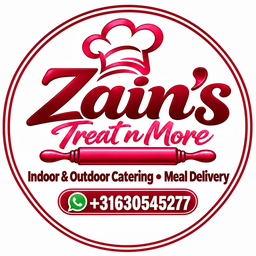
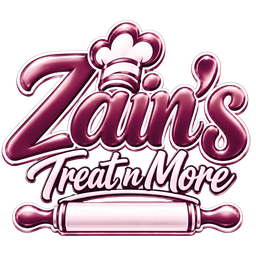
brand changes

diff --git a/apps/web/components/logo.tsx b/apps/web/components/logo.tsx
@@ -1,18 +1,11 @@
 import Image from "next/image";
 import { Link } from "@/i18n/navigation";
-import logoImage from "@/public/logo.jpg";
+import logoImage from "@/public/logo.png";
 
 export function Logo() {
   return (
     <Link href="/" className="inline-flex items-center" aria-label="Zain's Treat n More — Home">
-      <Image
-        src={logoImage}
-        alt="Zain's Treat n More"
-        width={48}
-        height={48}
-        priority
-        className="rounded-full"
-      />
+      <Image src={logoImage} alt="Zain's Treat n More" width={53} height={48} priority />
     </Link>
   );
 }

diff --git a/apps/web/app/globals.css b/apps/web/app/globals.css
@@ -2,11 +2,11 @@
 
 @theme {
   /* Brand palette (README §3) */
-  --color-primary: #A7041B;
-  --color-primary-dark: #71013B;
-  --color-primary-light: #E2073E;
-  --color-accent: #F93173;
-  --color-accent-light: #F4B7C7;
+  --color-primary: #72123C;
+  --color-primary-dark: #4E0C2A;
+  --color-primary-light: #8A1E4E;
+  --color-accent: #C66C84;
+  --color-accent-light: #F0AEC0;
   --color-background: #FFFFFF;
   --color-background-soft: #FAE8EA;
   --color-cream: #FBF4E9;

diff --git a/specs/2026-10-02-phase-5-public-static-pages/requirement.md b/specs/2026-10-02-phase-5-public-static-pages/requirement.md
@@ -261,3 +261,35 @@ the page indiscriminately. Decisions (confirmed with the user):
   utility class had been silently supplying underneath the brand override
   (the project's own `.container` rule only ever set `max-width`); removing
   Pico removed that free centering, so it's now set explicitly.
+
+## Addendum — logo revision and burgundy rebrand
+
+The client supplied a revised logo (a new wordmark + chef-hat + rolling-pin
+lockup, on a solid black background) and asked for the brand to shift from
+the crimson/hot-pink palette documented in the addendum above to
+burgundy-primary with white as a prominent color and pink used only as a
+minor accent:
+
+- **Logo replaced.** `apps/web/public/logo.jpg` was removed in favor of
+  `apps/web/public/logo.png`: the new artwork was background-matted to a
+  transparent PNG with `rembg` (AI matting, not a chroma-key/fuzz cutout —
+  the glossy dark-red edges needed real alpha matting to avoid halos), then
+  recolored in HSV space (deep fills hue-shifted to a burgundy ~332°; the
+  brighter pink script/rolling-pin fill desaturated to a muted blush; the
+  near-white highlights pushed to true white). `apps/web/app/icon.png`
+  (favicon) was regenerated from the same recolored artwork, kept
+  transparent (256×256).
+- **No more circular crop.** The new logo is a wide wordmark lockup, not a
+  circular emblem, so `components/logo.tsx` dropped the `rounded-full`
+  48×48 treatment in favor of showing the full lockup at its native aspect
+  ratio (53×48 display size, `width`/`height` on `next/image`).
+- **Brand tokens re-sampled from the recolored logo.** `globals.css`'s
+  `@theme` block and README §3 were both updated: `--color-primary` →
+  `#72123C`, `--color-primary-dark` → `#4E0C2A`, `--color-primary-light` →
+  `#8A1E4E`, `--color-accent` → `#C66C84`, `--color-accent-light` →
+  `#F0AEC0`. `--color-text`/`--color-text-muted` and every other structural
+  token (`--color-background*`, `--color-cream`, `--color-card`,
+  `--color-whatsapp*`, `--color-on-dark-*`) were left untouched — they
+  already read as burgundy-compatible and no component hardcodes a hex
+  value, so every `bg-primary`/`text-accent`/etc. call site picked up the
+  new palette automatically.

diff --git a/README.md b/README.md
@@ -84,15 +84,15 @@ The website palette is derived from the supplied logo.
 
 | Token | Color | Hex | Usage |
 |---|---|---|---|
-| `primary-dark` | Deep Wine | `#71013B` | Dark sections, footer, headings |
-| `primary` | Primary Crimson | `#A7041B` | Primary buttons, links, key UI |
-| `primary-light` | Bright Crimson | `#E2073E` | Secondary CTA, highlights |
-| `accent` | Hot Pink | `#F93173` | Small accents, decorative elements |
-| `accent-light` | Soft Pink | `#F4B7C7` | Borders, subtle accents |
+| `primary-dark` | Deep Burgundy | `#4E0C2A` | Dark sections, footer, headings |
+| `primary` | Burgundy | `#72123C` | Primary buttons, links, key UI |
+| `primary-light` | Light Burgundy | `#8A1E4E` | Secondary CTA, highlights |
+| `accent` | Dusty Pink | `#C66C84` | Small accents, decorative elements |
+| `accent-light` | Blush Pink | `#F0AEC0` | Borders, subtle accents |
 | `background-soft` | Very Light Pink | `#FAE8EA` | Section backgrounds |
 | `white` | White | `#FFFFFF` | Main background, cards |
 | `text` | Dark Text | `#2B1114` | Body text |
-| `text-muted` | Muted Brown/Red | `#6F4A4F` | Secondary text |
+| `text-muted` | Muted Brown/Red | `#55343A` | Secondary text |
 | `whatsapp` | WhatsApp Green | `#1DA332` | WhatsApp actions |
 
 ### CSS Variables
@@ -100,22 +100,22 @@ The website palette is derived from the supplied logo.
 ```css
 :root {
   /* Brand */
-  --color-primary: #A7041B;
-  --color-primary-dark: #71013B;
-  --color-primary-light: #E2073E;
+  --color-primary: #72123C;
+  --color-primary-dark: #4E0C2A;
+  --color-primary-light: #8A1E4E;
 
   /* Accent */
-  --color-accent: #F93173;
-  --color-accent-light: #F4B7C7;
+  --color-accent: #C66C84;
+  --color-accent-light: #F0AEC0;
 
   /* Background */
   --color-background: #FFFFFF;
   --color-background-soft: #FAE8EA;
-  --color-background-dark: #71013B;
+  --color-background-dark: #4E0C2A;
 
   /* Text */
   --color-text: #2B1114;
-  --color-text-muted: #6F4A4F;
+  --color-text-muted: #55343A;
   --color-text-light: #FFFFFF;
 
   /* Functional */
